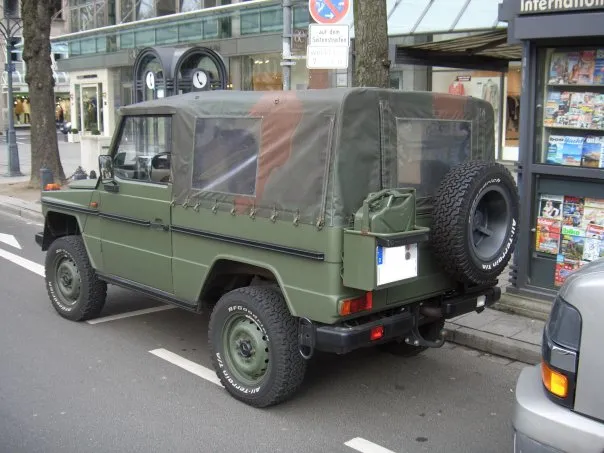
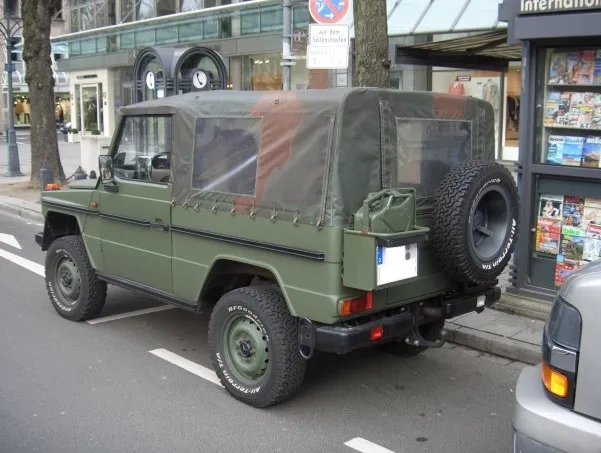
246

diff --git a/pic/ja_mb_img_g.html b/pic/ja_mb_img_g.html
@@ -386,7 +386,7 @@
 						<h5>Cabriolet</h5>
 						<a href="full/g/w460a.jpg"><img loading="lazy" src="style/g/w460a.webp" alt="メルセデス,W460,ゲレンデヴァーゲン,カブリオレ" width="1210" height="1041"></a><br>
 						<a href="full/g/w460a_f.jpg"><img loading="lazy" src="style/g/w460a_f.webp" alt="メルセデス,W460,ゲレンデヴァーゲン,カブリオレ,フロント" width="604" height="453"></a>
-						<a href="full/g/w460a_r.jpg"><img loading="lazy" src="style/g/w460a_r.webp" alt="メルセデス,W460,ゲレンデヴァーゲン,カブリオレ,リヤ" width="604" height="453"></a>
+						<a href="full/g/w460a_r.jpg"><img loading="lazy" src="style/g/w460a_r.webp" alt="メルセデス,W460,ゲレンデヴァーゲン,カブリオレ,リヤ" width="601" height="453"></a>
 						<h5>1983年、ジャッキー・イクスとクロード・ブラッスールが280 GE（W460）でパリ-ダカールラリーで優勝しました。</h5>
 						<a href="full/g/w460_rallye_paris_dakar.jpg"><img loading="lazy" src="style/g/w460_rallye_paris_dakar.webp" alt="メルセデス,W460,ゲレンデヴァーゲン,カブリオレ" width="1210" height="780"></a>
 					</section>

diff --git a/pic/mb_img_g.html b/pic/mb_img_g.html
@@ -386,7 +386,7 @@
 						<h5>Cabriolet</h5>
 						<a href="full/g/w460a.jpg"><img loading="lazy" src="style/g/w460a.webp" alt="Mercedes,W460,Gel&auml;ndewagen,Cabriolet" width="1210" height="1041"></a><br>
 						<a href="full/g/w460a_f.jpg"><img loading="lazy" src="style/g/w460a_f.webp" alt="Mercedes,W460,Gel&auml;ndewagen,Cabriolet,Frontansicht" width="604" height="453"></a>
-						<a href="full/g/w460a_r.jpg"><img loading="lazy" src="style/g/w460a_r.webp" alt="Mercedes,W460,Gel&auml;ndewagen,Cabriolet,Rückansicht" width="604" height="453"></a>
+						<a href="full/g/w460a_r.jpg"><img loading="lazy" src="style/g/w460a_r.webp" alt="Mercedes,W460,Gel&auml;ndewagen,Cabriolet,Rückansicht" width="601" height="453"></a>
 						<h5>Jacky Ickx und Claude Brasseur gewannen mit diesem Mercedes-Benz 280 GE der Baureihe 460 die Rallye Paris-Dakar.</h5>
 						<a href="full/g/w460_rallye_paris_dakar.jpg"><img loading="lazy" src="style/g/w460_rallye_paris_dakar.webp" alt="Mercedes,W460,Gel&auml;ndewagen,Cabriolet" width="1210" height="780"></a>
 					</section>

diff --git a/pic/en_mb_img_g.html b/pic/en_mb_img_g.html
@@ -386,7 +386,7 @@
 						<h5>Cabriolet</h5>
 						<a href="full/g/w460a.jpg"><img loading="lazy" src="style/g/w460a.webp" alt="Mercedes,W460,G-class,cabriolet" width="1210" height="1041"></a><br>
 						<a href="full/g/w460a_f.jpg"><img loading="lazy" src="style/g/w460a_f.webp" alt="Mercedes,W460,G-class,cabriolet,Front view" width="604" height="453"></a>
-						<a href="full/g/w460a_r.jpg"><img loading="lazy" src="style/g/w460a_r.webp" alt="Mercedes,W460,G-class,cabriolet,Rear view" width="604" height="453"></a>
+						<a href="full/g/w460a_r.jpg"><img loading="lazy" src="style/g/w460a_r.webp" alt="Mercedes,W460,G-class,cabriolet,Rear view" width="601" height="453"></a>
 						<h5>Jacky Ickx and Claude Brasseur won the Paris-Dakar Rally in this Mercedes-Benz 280 GE from model series 460.</h5>
 						<a href="full/g/w460_rallye_paris_dakar.jpg"><img loading="lazy" src="style/g/w460_rallye_paris_dakar.webp" alt="Mercedes,W460,G-class,cabriolet" width="1210" height="780"></a>
 					</section>
